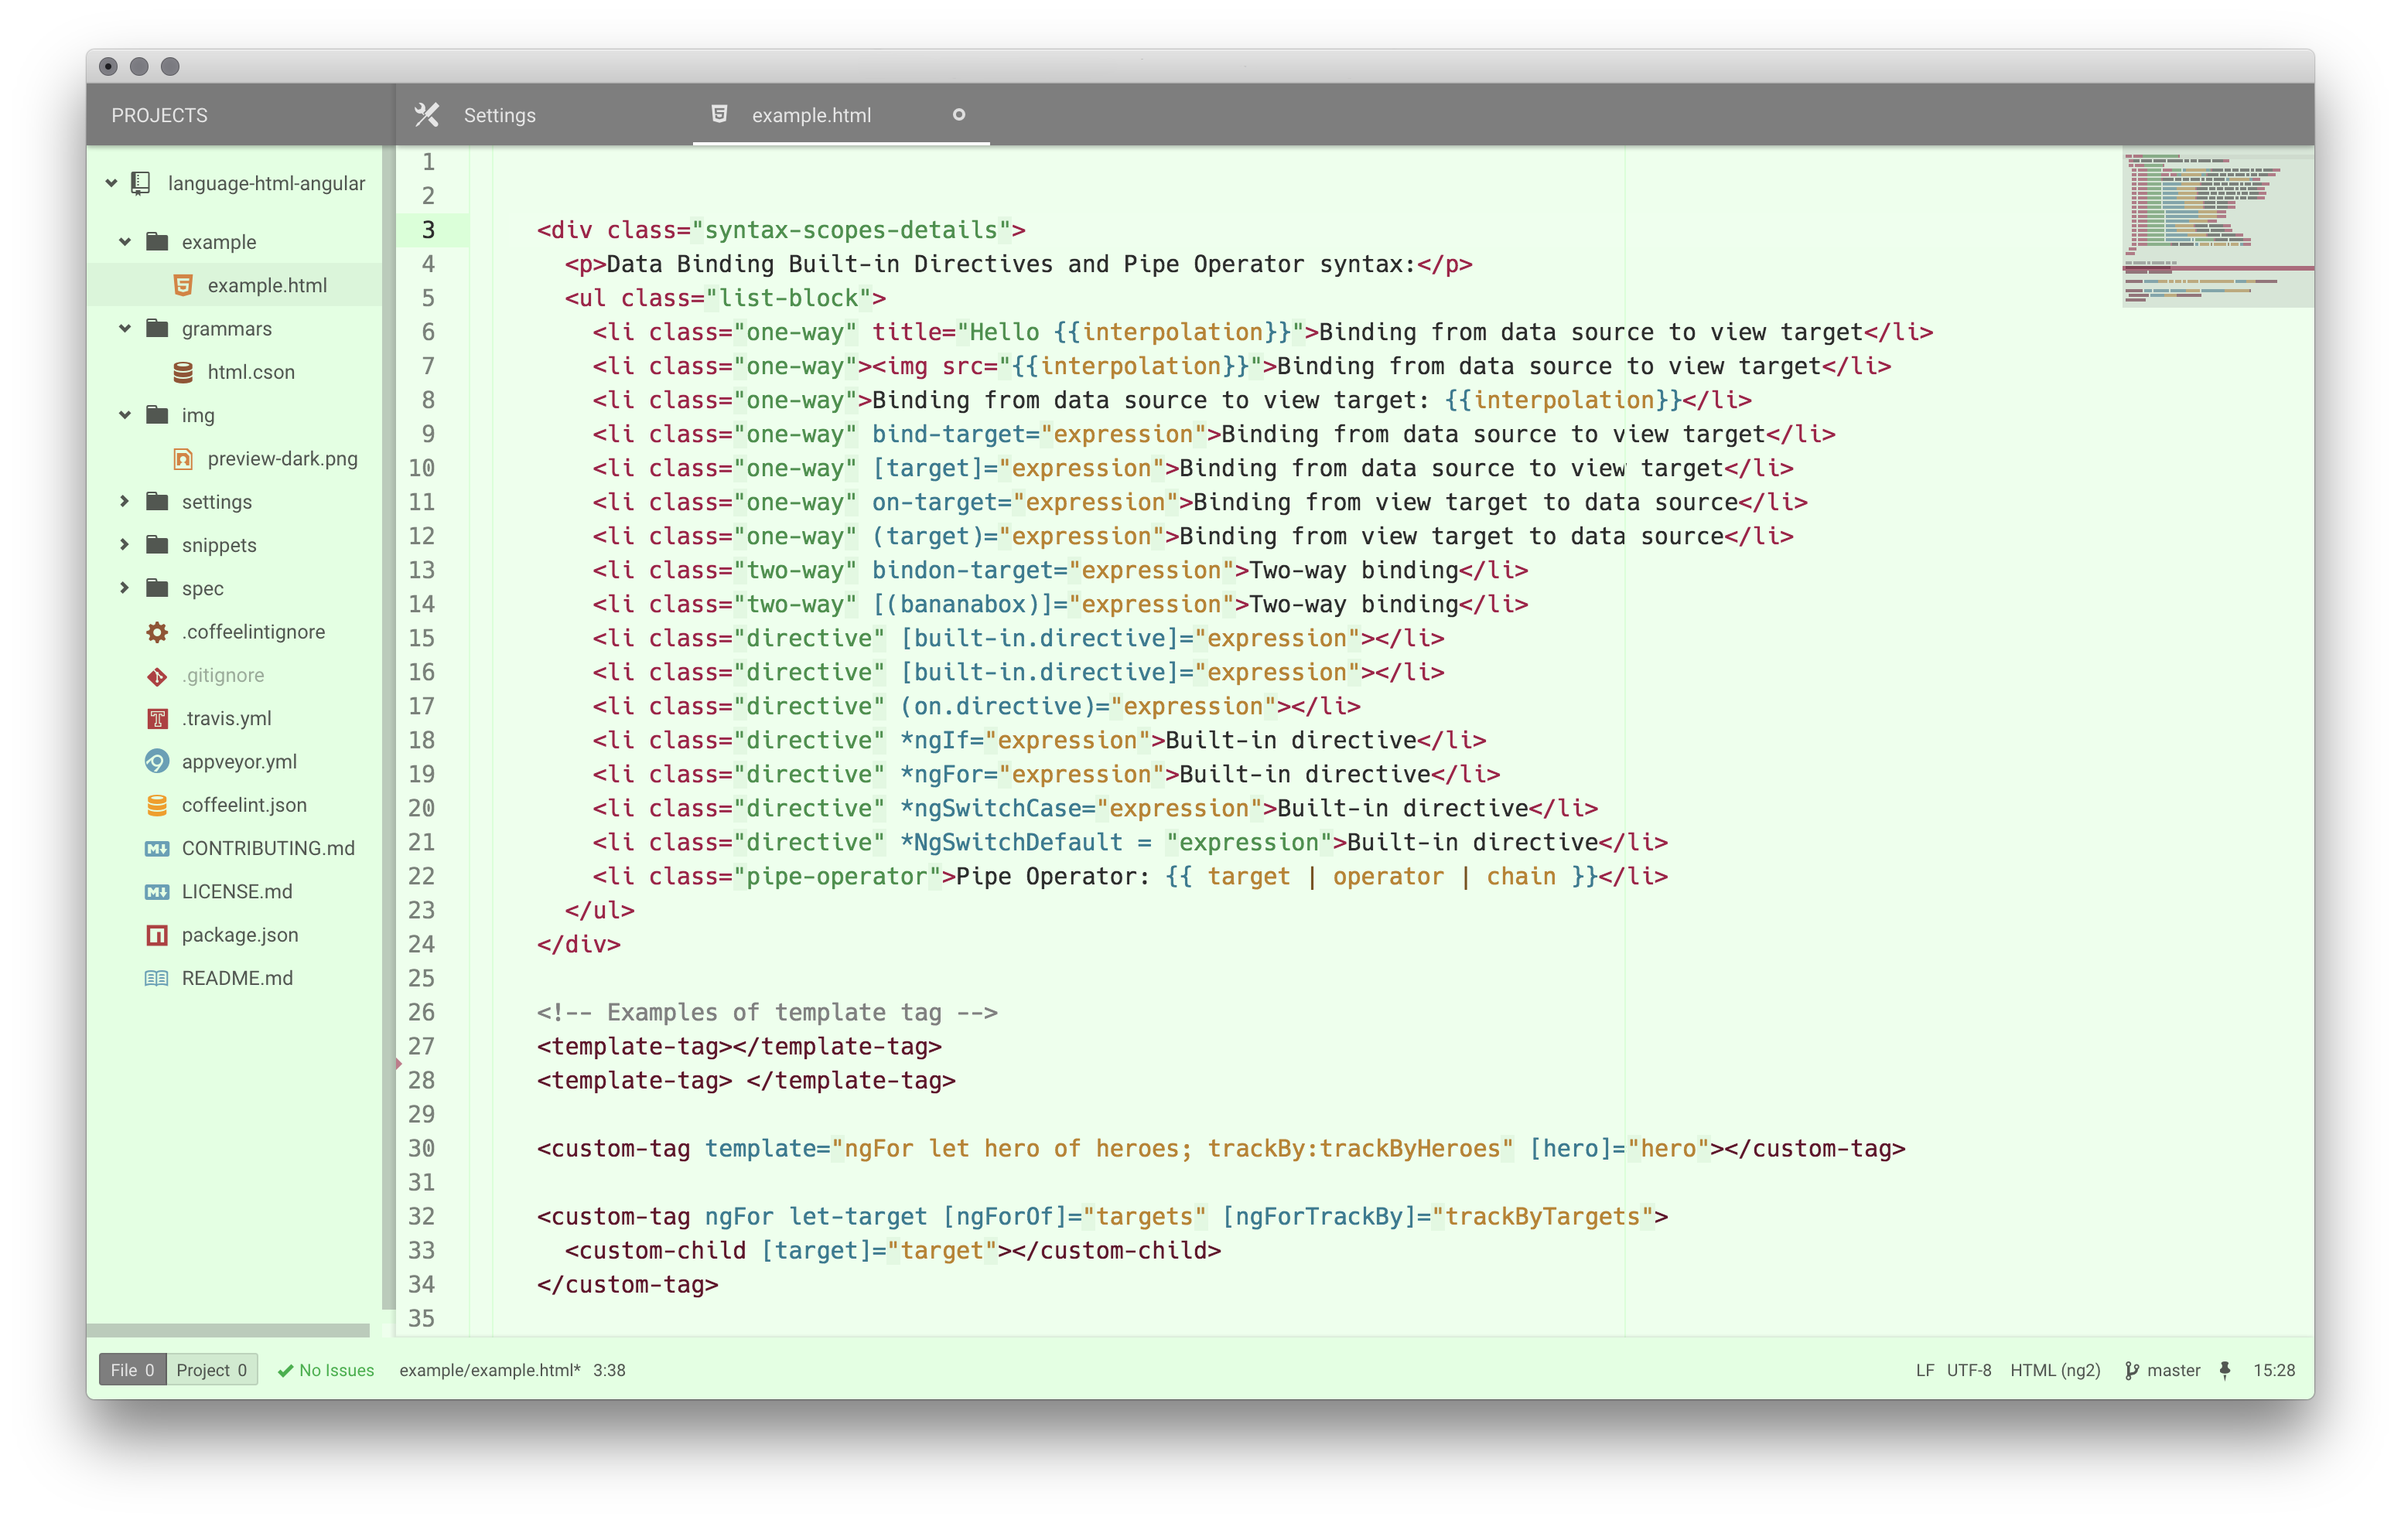
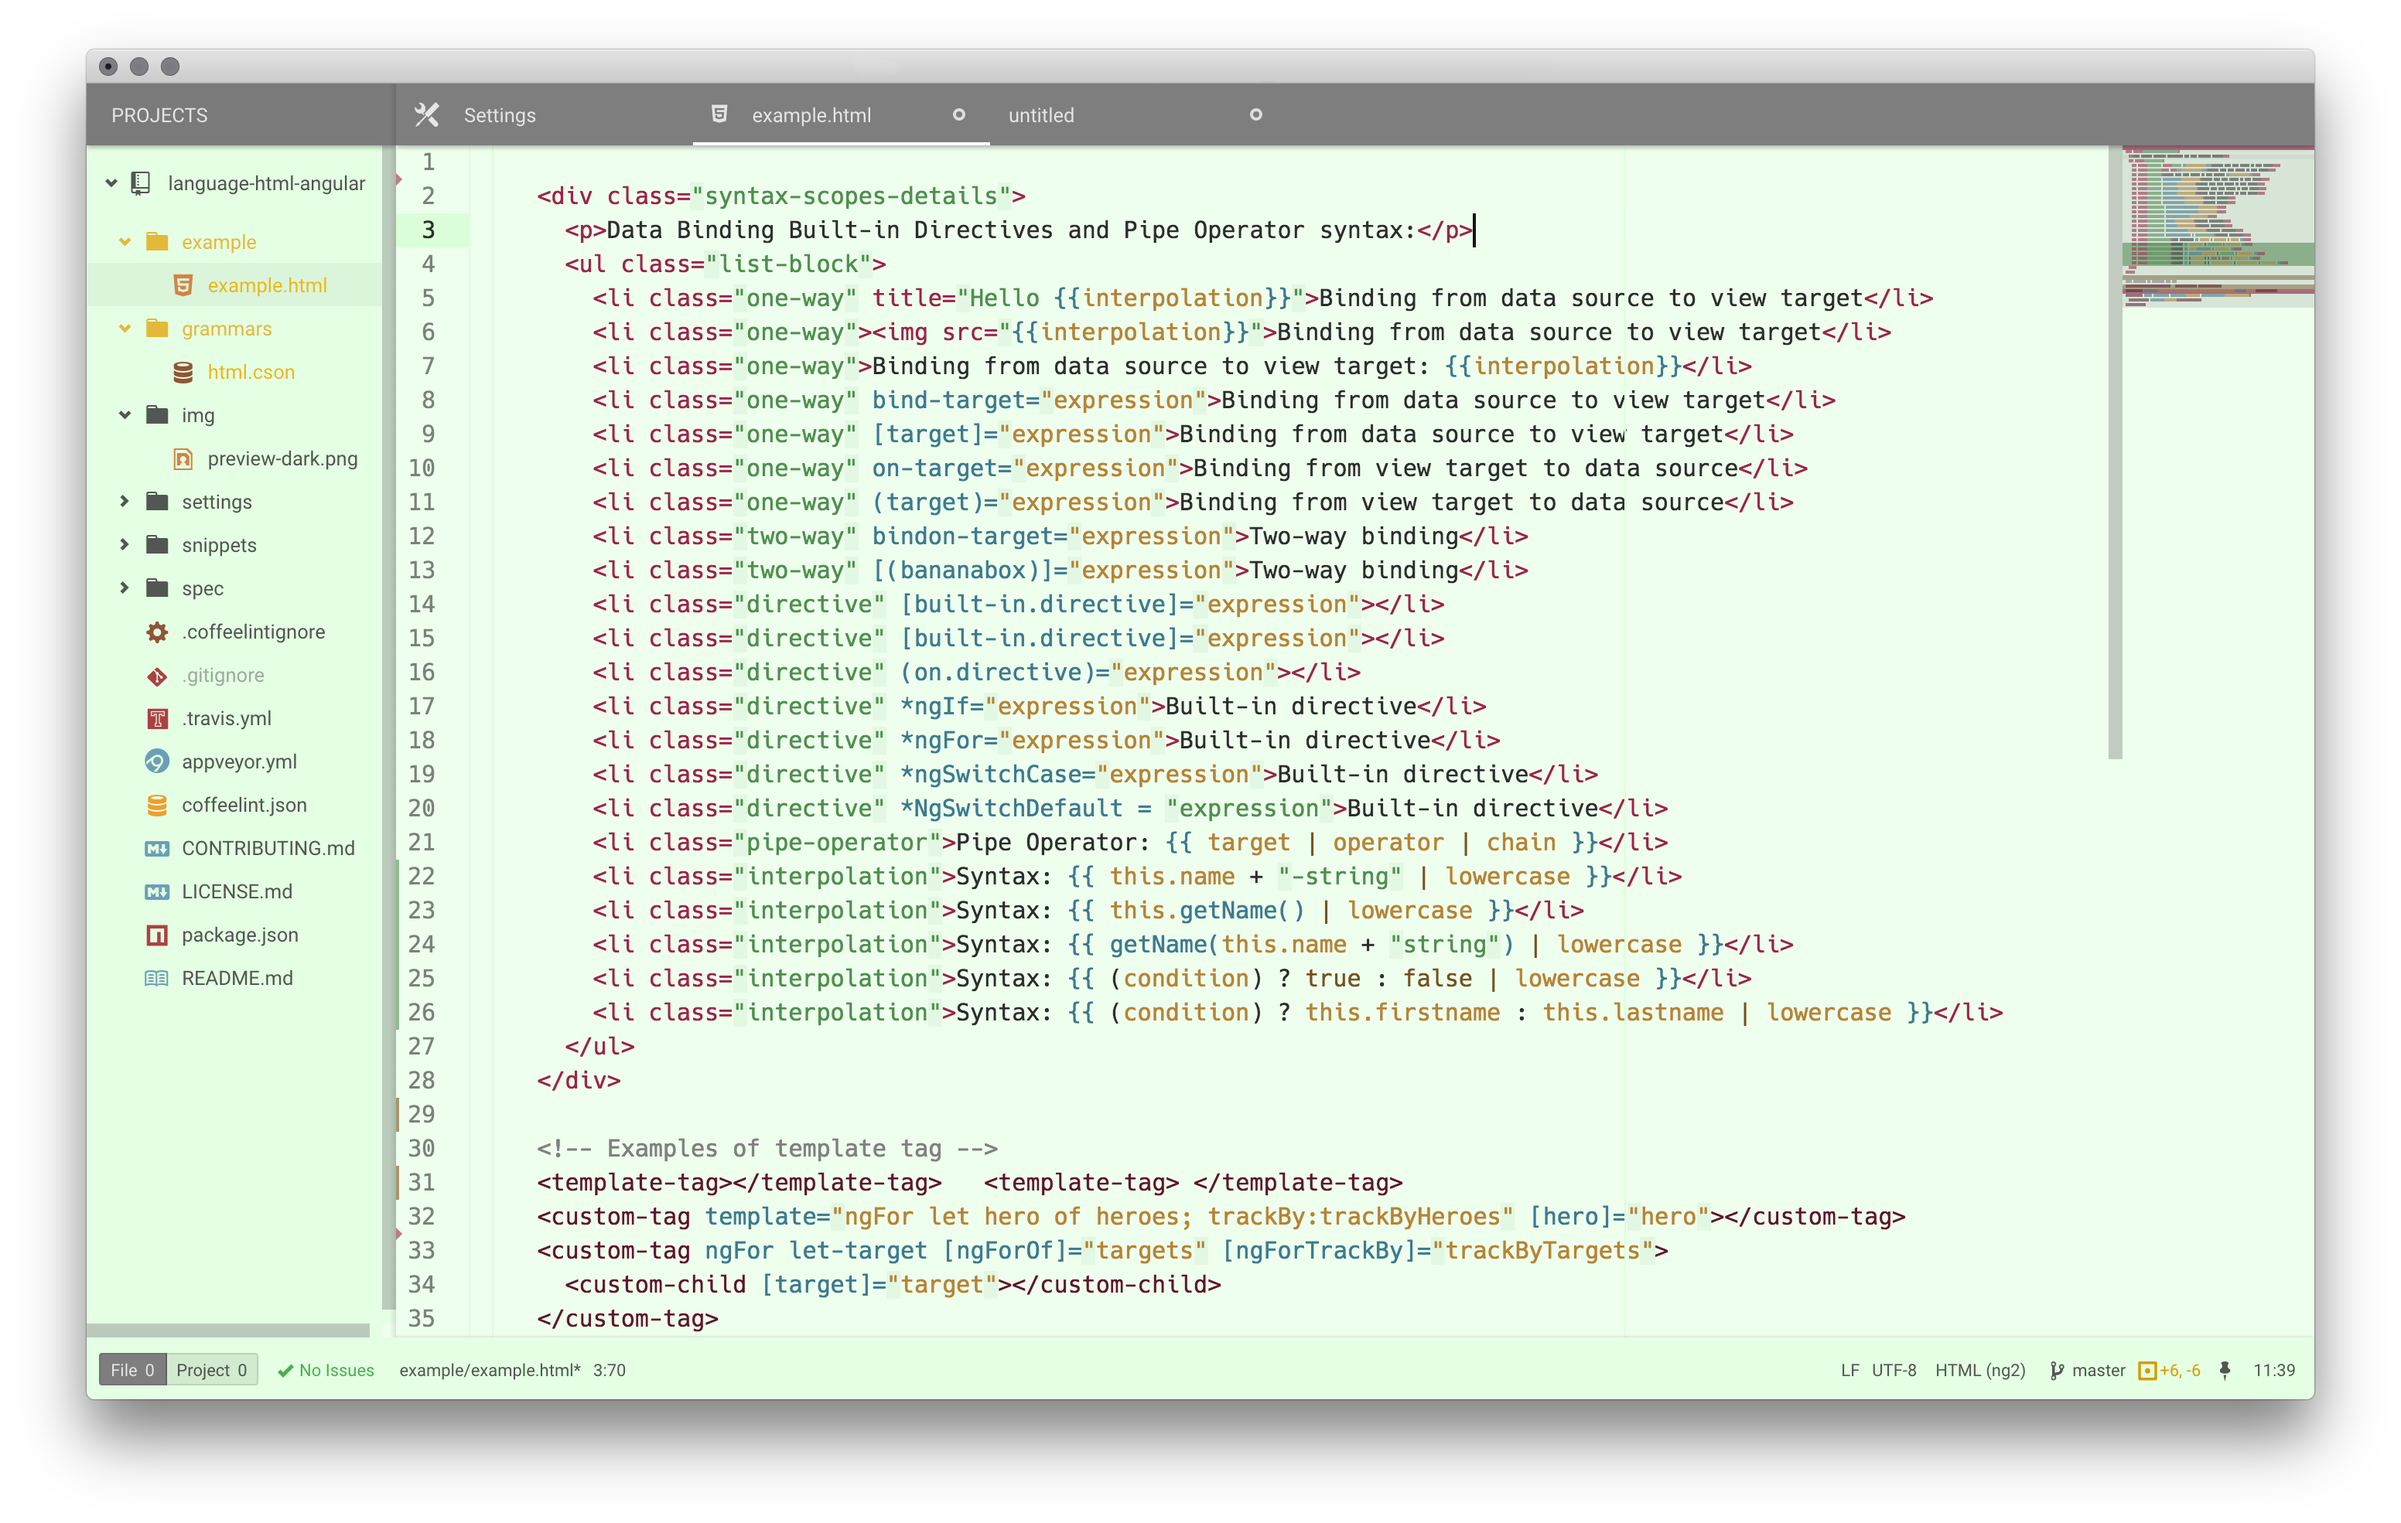
interpolation syntax highlighting added

diff --git a/lib/_theme.less b/lib/_theme.less
@@ -3,16 +3,16 @@
 
 // These colors are specific to the theme. Do not use in a package!
 
-@_background: @background_dark;
-@_current-line: lighten(@_background, 4%);
-@_selection: lighten(@_background, 10%);
-@_foreground: @foreground_dark;
+@_background: @background_light;
+@_current-line: darken(@_background, 4%);
+@_selection: darken(@_background, 10%);
+@_foreground: @foreground_light;
 @_comment: @comment_neutral;
 
-@____1: darken(@1____,20%);
-@____2: darken(@2____,20%);
-@____3: darken(@3____,20%);
-@____4: darken(@4____,20%);
-@____5: darken(@5____,20%);
-@____6: darken(@6____,20%);
-@____7: darken(@7____,20%);
+@____1: darken(@1____,45%);
+@____2: darken(@2____,40%);
+@____3: darken(@3____,40%);
+@____4: darken(@4____,40%);
+@____5: darken(@5____,40%);
+@____6: darken(@6____,45%);
+@____7: darken(@7____,35%);

diff --git a/styles/languages/angular.less b/styles/languages/angular.less
@@ -76,4 +76,37 @@
     color: darken(@111111,15%) !important;
   }
 
+  // Interpolation Syntax
+  .punctuation.definition.js.string.begin.ng.html {
+    color: @444444 !important;
+  }
+
+  .punctuation.definition.js.string.end.ng.html {
+    color: @444444 !important;
+  }
+
+  .string.operator.ng {
+    color: @syntax-text-color !important;
+  }
+
+  .string.bracket.ng {
+    color: @syntax-text-color !important;
+  }
+
+  .string.js.bool.ng {
+    color: @222222 !important;
+  }
+
+  .punctuation.definition.function.begin.ng {
+    color: @666666 !important;
+  }
+
+  .punctuation.definition.function.end.ng {
+    color: @666666 !important;
+  }
+
+  .meta.definition.function.ng {
+    color: @333333 !important;
+  }
+
 }
